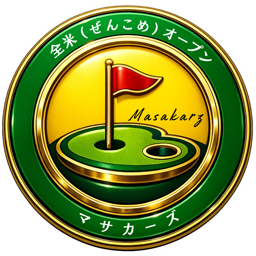
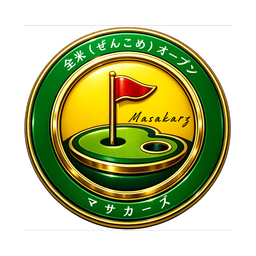
共有用に /v4/ を追加し、エンブレムの見切れを解消する
アイコンに余白を足して外周の欠けを防ぎ、直近の文言調整も合わせて公開する。

diff --git a/v3/index.html b/v3/index.html
@@ -5,8 +5,8 @@
 <meta name="viewport" content="width=device-width, initial-scale=1.0">
 <title>マサカーズ 2026｜全米（ぜんこめ）オープンチャンピオンシップ</title>
 <meta name="description" content="2026マサカーズ全米（ぜんこめ）オープンチャンピオンシップ。2026年7月25日（土）ピートダイゴルフクラブ VIPコースにて開催しました。">
-<link rel="icon" type="image/png" href="../images/favicon-32.png?v=20260811">
-<link rel="apple-touch-icon" href="../images/crest.png?v=20260811">
+<link rel="icon" type="image/png" href="../images/favicon-32.png?v=20260818">
+<link rel="apple-touch-icon" href="../images/crest.png?v=20260818">
 <link rel="preconnect" href="https://fonts.googleapis.com">
 <link rel="preconnect" href="https://fonts.gstatic.com" crossorigin>
 <link href="https://fonts.googleapis.com/css2?family=Cormorant+Garamond:ital,wght@0,400;0,500;0,600;0,700;1,400;1,500&family=Noto+Serif+JP:wght@300;400;500;600;700&display=swap" rel="stylesheet">
@@ -90,7 +90,7 @@
     height:76px;
   }
   .brand{display:flex;align-items:center;gap:12px;color:var(--cream)}
-  .brand .crest{width:44px;height:44px;flex:none;object-fit:contain;border-radius:50%}
+  .brand .crest{width:44px;height:44px;flex:none;object-fit:contain;border-radius:50%;overflow:visible}
   .brand .bt{font-family:"Cormorant Garamond",serif;font-weight:600;font-size:1.25rem;letter-spacing:.04em;line-height:1}
   .brand .bt small{display:block;font-size:.62rem;letter-spacing:.34em;color:var(--gold-soft);font-weight:600;text-transform:uppercase}
   .menu{display:flex;gap:26px}
@@ -299,7 +299,7 @@
   /* ---------- Footer ---------- */
   footer{background:var(--green-darker);color:var(--cream);padding:70px 0 34px}
   .foot-top{display:grid;grid-template-columns:1.3fr 1fr 1fr;gap:40px;padding-bottom:44px;border-bottom:1px solid var(--line)}
-  .foot-brand .crest{width:52px;height:52px;margin-bottom:14px;object-fit:contain;border-radius:50%;display:block}
+  .foot-brand .crest{width:52px;height:52px;margin-bottom:14px;object-fit:contain;border-radius:50%;display:block;overflow:visible}
   .foot-brand .bt{font-family:"Cormorant Garamond",serif;font-size:1.4rem;font-weight:600}
   .foot-brand .bt small{display:block;font-size:.62rem;letter-spacing:.34em;color:var(--gold-soft);text-transform:uppercase}
   .foot-brand p{font-weight:300;font-size:.86rem;color:rgba(247,242,230,.7);margin-top:16px;line-height:2;max-width:26em}
@@ -318,7 +318,7 @@
     border:1px solid var(--gold);padding:48px 32px;position:relative;
     background:linear-gradient(180deg,rgba(198,168,84,.10),transparent);
   }
-  .defending .crest2{width:72px;height:72px;margin:0 auto 14px;object-fit:contain;border-radius:50%;display:block}
+  .defending .crest2{width:72px;height:72px;margin:0 auto 14px;object-fit:contain;border-radius:50%;display:block;overflow:visible}
   .defending .cap{font-family:"Cormorant Garamond",serif;font-style:italic;color:var(--gold);letter-spacing:.14em;font-size:1rem;margin-bottom:4px}
   .defending .ed{font-size:.72rem;letter-spacing:.34em;text-transform:uppercase;color:var(--ink-soft)}
   .defending h3{font-size:2.6rem;font-weight:500;color:var(--green-deep);margin:12px 0 6px;line-height:1.1}
@@ -425,7 +425,7 @@
 <header id="hdr">
   <div class="wrap nav">
     <a href="#top" class="brand">
-      <img class="crest" src="../images/crest.png?v=20260811" width="44" height="44" alt="マサカーズ エンブレム">
+      <img class="crest" src="../images/crest.png?v=20260818" width="44" height="44" alt="マサカーズ エンブレム">
       <span class="bt">マサカーズ<small>Masacars Open</small></span>
     </a>
     <nav class="menu" id="menu">
@@ -449,7 +449,7 @@
     <div class="invit kicker">1DAY Tournament</div>
     <p class="jp-tag">第8667回　<span class="zenkome">全米（ぜんこめ）</span>オープン</p>
     <h1><span class="naranu">マスターズならぬ、</span>マサカーズ</h1>
-    <p class="lead">皆様と交流を深める目的として、ゆる〜く開催したゴルフコンペです。真夏を前に、白熱した戦いで、ひと足早い猛暑の一日となりました。ご参加ありがとうございました。</p>
+    <p class="lead">皆様と交流を深める目的として、ゆる〜く開催したゴルフコンペです。<br>真夏を前に、白熱した戦いで、ひと足早い猛暑の一日となりました。<br>ご参加ありがとうございました。</p>
     <div class="facts">
       <div class="fact"><div class="l">Date</div><div class="v">2026.07.25（土）</div></div>
       <div class="fact"><div class="l">Venue</div><div class="v">ピートダイGC</div></div>
@@ -470,7 +470,7 @@
       <span class="kicker">About the Cup</span>
       <h2>競うためではなく、<br><em>新しい輪を広げるための一日に。</em></h2>
     </div>
-    <p class="about-lead rv">第8667回ゴルフコンペ。<em>職種や立場を超えて交流を深める</em>一日となりました。スコアの巧拙は問いません。楽しくプレーを楽しんでいただきました。</p>
+    <p class="about-lead rv">第8667回ゴルフコンペ。<em>職種や立場を超えて交流を深める</em>一日となりました。楽しくプレーを楽しんでいただきました。</p>
     <div class="about-grid rv">
       <div class="about-card">
         <div class="no">i.</div>
@@ -520,7 +520,6 @@
     <div class="sec-head rv">
       <span class="kicker">Card of the Day</span>
       <h2>当日の流れ</h2>
-      <p class="sub">集合からスタートまでの進行です。チェックインは各組スタート30分前までに済ませました。</p>
     </div>
     <div class="tl rv">
       <div class="tl-phase">Morning</div>
@@ -580,7 +579,7 @@
       <p class="sub">第8667回マサカーズに集う20名のエントラントたち。</p>
     </div>
     <div class="defending rv">
-      <img class="crest2" src="../images/crest.png?v=20260811" width="72" height="72" alt="マサカーズ エンブレム">
+      <img class="crest2" src="../images/crest.png?v=20260818" width="72" height="72" alt="マサカーズ エンブレム">
       <div class="cap">2026 Field</div>
       <div class="ed">全5組　20名</div>
       <h3>出場選手一覧</h3>
@@ -731,7 +730,7 @@
   <div class="wrap">
     <div class="foot-top">
       <div class="foot-brand">
-        <img class="crest" src="../images/crest.png?v=20260811" width="52" height="52" alt="マサカーズ エンブレム">
+        <img class="crest" src="../images/crest.png?v=20260818" width="52" height="52" alt="マサカーズ エンブレム">
         <div class="bt">マサカーズ<small>Masacars Open</small></div>
         <p>マスターズならぬ、マサカーズ。交流を深めるためのゆる〜い1DAYトーナメント。素敵な輪が広がりました。</p>
       </div>

diff --git a/index.html b/index.html
@@ -5,8 +5,8 @@
 <meta name="viewport" content="width=device-width, initial-scale=1.0">
 <title>マサカーズ 2026｜全米（ぜんこめ）オープンチャンピオンシップ</title>
 <meta name="description" content="2026マサカーズ全米（ぜんこめ）オープンチャンピオンシップ。2026年7月25日（土）ピートダイゴルフクラブ VIPコースにて開催しました。">
-<link rel="icon" type="image/png" href="images/favicon-32.png?v=20260811">
-<link rel="apple-touch-icon" href="images/crest.png?v=20260811">
+<link rel="icon" type="image/png" href="images/favicon-32.png?v=20260818">
+<link rel="apple-touch-icon" href="images/crest.png?v=20260818">
 <link rel="preconnect" href="https://fonts.googleapis.com">
 <link rel="preconnect" href="https://fonts.gstatic.com" crossorigin>
 <link href="https://fonts.googleapis.com/css2?family=Cormorant+Garamond:ital,wght@0,400;0,500;0,600;0,700;1,400;1,500&family=Noto+Serif+JP:wght@300;400;500;600;700&display=swap" rel="stylesheet">
@@ -90,7 +90,7 @@
     height:76px;
   }
   .brand{display:flex;align-items:center;gap:12px;color:var(--cream)}
-  .brand .crest{width:44px;height:44px;flex:none;object-fit:contain;border-radius:50%}
+  .brand .crest{width:44px;height:44px;flex:none;object-fit:contain;border-radius:50%;overflow:visible}
   .brand .bt{font-family:"Cormorant Garamond",serif;font-weight:600;font-size:1.25rem;letter-spacing:.04em;line-height:1}
   .brand .bt small{display:block;font-size:.62rem;letter-spacing:.34em;color:var(--gold-soft);font-weight:600;text-transform:uppercase}
   .menu{display:flex;gap:26px}
@@ -299,7 +299,7 @@
   /* ---------- Footer ---------- */
   footer{background:var(--green-darker);color:var(--cream);padding:70px 0 34px}
   .foot-top{display:grid;grid-template-columns:1.3fr 1fr 1fr;gap:40px;padding-bottom:44px;border-bottom:1px solid var(--line)}
-  .foot-brand .crest{width:52px;height:52px;margin-bottom:14px;object-fit:contain;border-radius:50%;display:block}
+  .foot-brand .crest{width:52px;height:52px;margin-bottom:14px;object-fit:contain;border-radius:50%;display:block;overflow:visible}
   .foot-brand .bt{font-family:"Cormorant Garamond",serif;font-size:1.4rem;font-weight:600}
   .foot-brand .bt small{display:block;font-size:.62rem;letter-spacing:.34em;color:var(--gold-soft);text-transform:uppercase}
   .foot-brand p{font-weight:300;font-size:.86rem;color:rgba(247,242,230,.7);margin-top:16px;line-height:2;max-width:26em}
@@ -318,7 +318,7 @@
     border:1px solid var(--gold);padding:48px 32px;position:relative;
     background:linear-gradient(180deg,rgba(198,168,84,.10),transparent);
   }
-  .defending .crest2{width:72px;height:72px;margin:0 auto 14px;object-fit:contain;border-radius:50%;display:block}
+  .defending .crest2{width:72px;height:72px;margin:0 auto 14px;object-fit:contain;border-radius:50%;display:block;overflow:visible}
   .defending .cap{font-family:"Cormorant Garamond",serif;font-style:italic;color:var(--gold);letter-spacing:.14em;font-size:1rem;margin-bottom:4px}
   .defending .ed{font-size:.72rem;letter-spacing:.34em;text-transform:uppercase;color:var(--ink-soft)}
   .defending h3{font-size:2.6rem;font-weight:500;color:var(--green-deep);margin:12px 0 6px;line-height:1.1}
@@ -425,7 +425,7 @@
 <header id="hdr">
   <div class="wrap nav">
     <a href="#top" class="brand">
-      <img class="crest" src="images/crest.png?v=20260811" width="44" height="44" alt="マサカーズ エンブレム">
+      <img class="crest" src="images/crest.png?v=20260818" width="44" height="44" alt="マサカーズ エンブレム">
       <span class="bt">マサカーズ<small>Masacars Open</small></span>
     </a>
     <nav class="menu" id="menu">
@@ -449,7 +449,7 @@
     <div class="invit kicker">1DAY Tournament</div>
     <p class="jp-tag">第8667回　<span class="zenkome">全米（ぜんこめ）</span>オープン</p>
     <h1><span class="naranu">マスターズならぬ、</span>マサカーズ</h1>
-    <p class="lead">皆様と交流を深める目的として、ゆる〜く開催したゴルフコンペです。真夏を前に、白熱した戦いで、ひと足早い猛暑の一日となりました。ご参加ありがとうございました。</p>
+    <p class="lead">皆様と交流を深める目的として、ゆる〜く開催したゴルフコンペです。<br>真夏を前に、白熱した戦いで、ひと足早い猛暑の一日となりました。<br>ご参加ありがとうございました。</p>
     <div class="facts">
       <div class="fact"><div class="l">Date</div><div class="v">2026.07.25（土）</div></div>
       <div class="fact"><div class="l">Venue</div><div class="v">ピートダイGC</div></div>
@@ -470,7 +470,7 @@
       <span class="kicker">About the Cup</span>
       <h2>競うためではなく、<br><em>新しい輪を広げるための一日に。</em></h2>
     </div>
-    <p class="about-lead rv">第8667回ゴルフコンペ。<em>職種や立場を超えて交流を深める</em>一日となりました。スコアの巧拙は問いません。楽しくプレーを楽しんでいただきました。</p>
+    <p class="about-lead rv">第8667回ゴルフコンペ。<em>職種や立場を超えて交流を深める</em>一日となりました。楽しくプレーを楽しんでいただきました。</p>
     <div class="about-grid rv">
       <div class="about-card">
         <div class="no">i.</div>
@@ -520,7 +520,6 @@
     <div class="sec-head rv">
       <span class="kicker">Card of the Day</span>
       <h2>当日の流れ</h2>
-      <p class="sub">集合からスタートまでの進行です。チェックインは各組スタート30分前までに済ませました。</p>
     </div>
     <div class="tl rv">
       <div class="tl-phase">Morning</div>
@@ -580,7 +579,7 @@
       <p class="sub">第8667回マサカーズに集う20名のエントラントたち。</p>
     </div>
     <div class="defending rv">
-      <img class="crest2" src="images/crest.png?v=20260811" width="72" height="72" alt="マサカーズ エンブレム">
+      <img class="crest2" src="images/crest.png?v=20260818" width="72" height="72" alt="マサカーズ エンブレム">
       <div class="cap">2026 Field</div>
       <div class="ed">全5組　20名</div>
       <h3>出場選手一覧</h3>
@@ -731,7 +730,7 @@
   <div class="wrap">
     <div class="foot-top">
       <div class="foot-brand">
-        <img class="crest" src="images/crest.png?v=20260811" width="52" height="52" alt="マサカーズ エンブレム">
+        <img class="crest" src="images/crest.png?v=20260818" width="52" height="52" alt="マサカーズ エンブレム">
         <div class="bt">マサカーズ<small>Masacars Open</small></div>
         <p>マスターズならぬ、マサカーズ。交流を深めるためのゆる〜い1DAYトーナメント。素敵な輪が広がりました。</p>
       </div>
